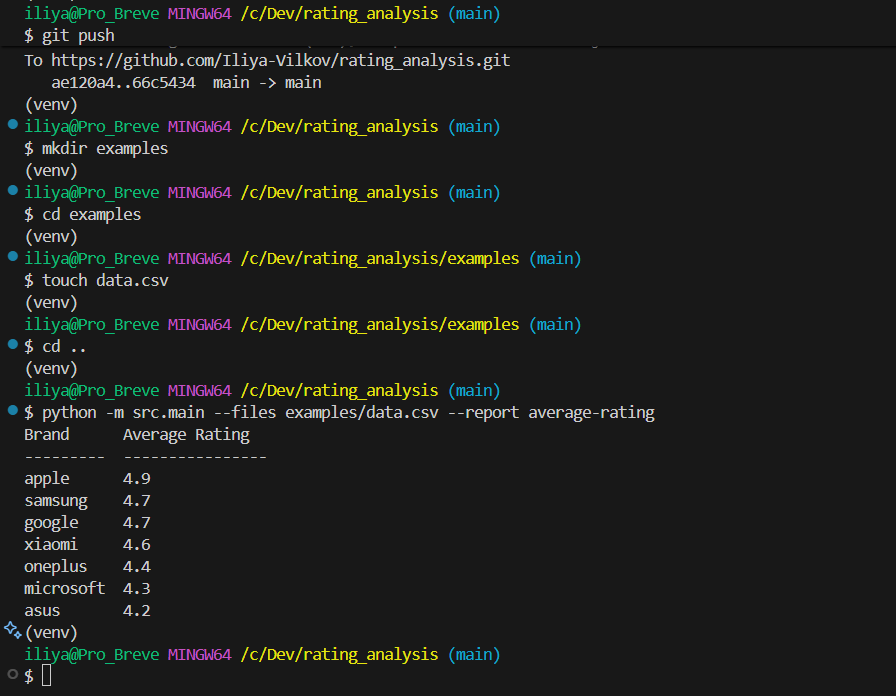
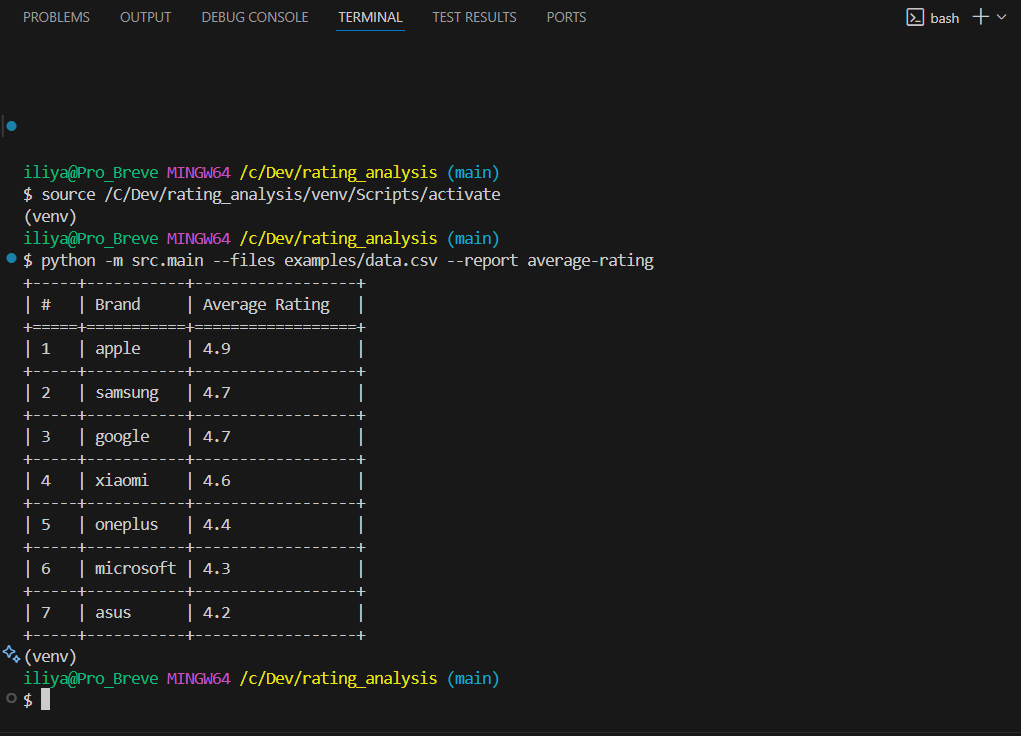
добавил красивую таблицу

Changed region(s): [[0.0, 0.0, 0.75, 0.9957], [0.875, 0.0, 0.9688, 0.0302], [0.5, 0.1509, 0.5625, 0.2112]]

diff --git a/src/report/average_rating.py b/src/report/average_rating.py
@@ -27,10 +27,16 @@ class AverageRatingReport(BaseReport):
         ]
         formatted_data.sort(key=lambda x: float(x[1]), reverse=True)
 
-        headers = ["Brand", "Average Rating"]
+        # Добавляем нумерацию
+        numbered_data = [
+            (idx + 1, brand, rating)
+            for idx, (brand, rating) in enumerate(formatted_data)
+        ]
+
+        headers = ["#", "Brand", "Average Rating"]
         return tabulate(
-            formatted_data,
+            numbered_data,
             headers=headers,
-            tablefmt="simple",
+            tablefmt="grid",
             disable_numparse=True,
         )
